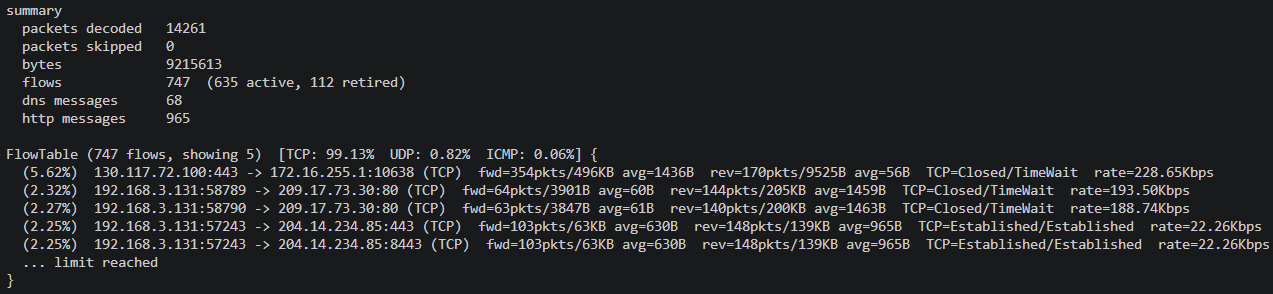
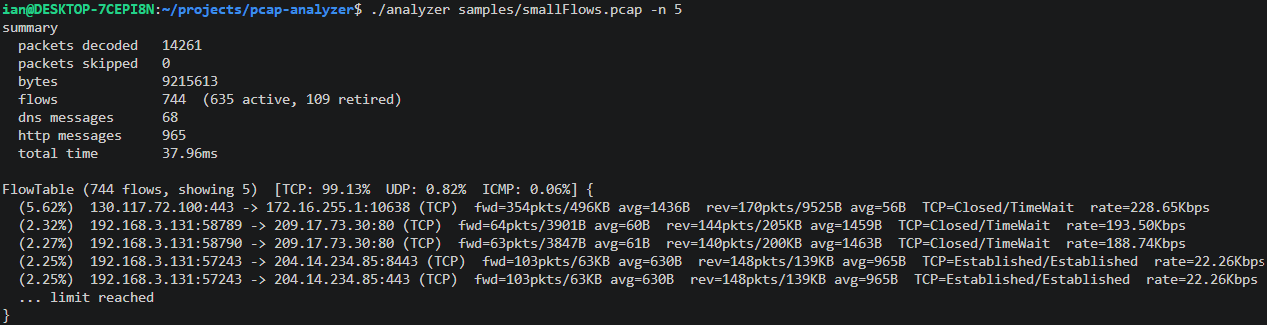
Add active and idle flow timeout flags, defaulting to no active timeout, and 30s idle flow timeout

Changed region(s): [[0.0, 0.0, 1.0, 0.9796]]

diff --git a/src/net/capture/cli.cpp b/src/net/capture/cli.cpp
@@ -20,6 +20,8 @@ struct Options {
     bool show_bench = false;
     bool verify_checksum = true;
     size_t limit = 0;
+    uint64_t flow_timeout_us = 0;
+    uint64_t idle_timeout_us = FlowTable::DEFAULT_IDLE_TIMEOUT_US;
     bool help = false;
 };
 
@@ -44,6 +46,13 @@ void printUsage(std::ostream& os) {
         "  -C, --no-checksum  accept packets with bad IP/TCP/UDP/ICMP checksums\n"
         "                     (captures taken on a sending host often carry\n"
         "                      invalid checksums due to NIC offload)\n"
+        "  -t, --timeout SEC  retire a flow after SEC seconds of activity, even if\n"
+        "                     it never goes idle, and start a new one under the same\n"
+        "                     key (default: 0 = no timeout, a flow only retires by\n"
+        "                     going idle for 30s)\n"
+        "  -i, --idle SEC     retire a flow after SEC seconds without a packet, so a\n"
+        "                     later packet reusing the same 5-tuple starts a new flow\n"
+        "                     instead of joining the old one (default: 30)\n"
         "  -h, --help         this message\n";
 }
 
@@ -84,6 +93,30 @@ bool parseArgs(int argc, char** argv, Options& out) {
                 return false;
             }
             out.limit = static_cast<size_t>(value);
+        } else if (matches(arg, "-t", "--timeout")) {
+            if (i + 1 >= argc) {
+                std::cerr << kProgram << ": " << arg << " requires a number of seconds\n";
+                return false;
+            }
+            char* end = nullptr;
+            long value = std::strtol(argv[++i], &end, 10);
+            if (!end || *end != '\0' || value < 0) {
+                std::cerr << kProgram << ": invalid timeout '" << argv[i] << "'\n";
+                return false;
+            }
+            out.flow_timeout_us = static_cast<uint64_t>(value) * 1'000'000;
+        } else if (matches(arg, "-i", "--idle")) {
+            if (i + 1 >= argc) {
+                std::cerr << kProgram << ": " << arg << " requires a number of seconds\n";
+                return false;
+            }
+            char* end = nullptr;
+            long value = std::strtol(argv[++i], &end, 10);
+            if (!end || *end != '\0' || value < 0) {
+                std::cerr << kProgram << ": invalid idle timeout '" << argv[i] << "'\n";
+                return false;
+            }
+            out.idle_timeout_us = static_cast<uint64_t>(value) * 1'000'000;
         } else if (arg[0] == '-' && arg[1] != '\0') {
             std::cerr << kProgram << ": unknown option '" << arg << "'\n";
             return false;
@@ -113,6 +146,7 @@ void printSummary(std::ostream& os, const pcap::Reader& reader) {
     size_t http_messages = 0;
     size_t dns_messages = 0;
     size_t decode_failures = 0;
+    size_t http_bodies_skipped = 0;
     for (const auto& [key, flow] : table.allFlows()) {
         (void)flow;
         for (bool reverse : {false, true}) {
@@ -121,6 +155,7 @@ void printSummary(std::ostream& os, const pcap::Reader& reader) {
             http_messages += apps->http_messages.size();
             dns_messages += apps->dns_messages.size();
             decode_failures += apps->decode_failures;
+            http_bodies_skipped += apps->http_bodies_skipped;
         }
     }
 
@@ -142,6 +177,10 @@ void printSummary(std::ostream& os, const pcap::Reader& reader) {
     if (decode_failures) {
         os << "  decode failures   " << decode_failures << '\n';
     }
+    if (http_bodies_skipped) {
+        os << "  http bodies skipped " << http_bodies_skipped
+           << "  (>" << (MAX_HTTP_MESSAGE_BYTES / (1024 * 1024)) << "MB, not decode failures)\n";
+    }
     os << "  total time        " << Benchmark::formatDuration(reader.benchmark().elapsedNs(Benchmark::Phase::Total)) << '\n';
     os << '\n';
 }
@@ -160,7 +199,7 @@ int cli(int argc, char** argv) {
     }
 
     try {
-        pcap::Reader reader(options.path, options.limit, options.show_bench, options.verify_checksum);
+        pcap::Reader reader(options.path, options.limit, options.show_bench, options.verify_checksum, options.flow_timeout_us, options.idle_timeout_us);
 
         reader.readAllPackets();
 

diff --git a/include/net/flow/flow_tracker.h b/include/net/flow/flow_tracker.h
@@ -39,7 +39,10 @@ public:
         }
     };
 
-    FlowTable() = default;
+    static constexpr uint64_t DEFAULT_IDLE_TIMEOUT_US = 30000000;
+
+    explicit FlowTable(uint64_t active_timeout_us = 0, uint64_t idle_timeout_us = DEFAULT_IDLE_TIMEOUT_US)
+        : active_timeout_us_(active_timeout_us), idle_timeout_us_(idle_timeout_us) {}
 
     ParseError addPacket(const net::pcap::Capture& capture, FlowKey* out_key = nullptr, bool* out_is_new = nullptr, Flow** out_flow = nullptr);
     void flush();
@@ -51,9 +54,8 @@ public:
     const std::vector<std::pair<const FlowKey*, const FlowTable::Flow*>> allFlows() const;
 
 private:
-    static constexpr uint64_t IDLE_TIMEOUT_US = 30000000;
-    static constexpr uint64_t ACTIVE_TIMEOUT_US = 120000000;
-
+    uint64_t active_timeout_us_ = 0;
+    uint64_t idle_timeout_us_ = DEFAULT_IDLE_TIMEOUT_US;
     uint64_t total_bytes_ = 0;
     std::unordered_map<FlowKey, Flow, FlowKeyHash> flows_;
     std::vector<std::pair<FlowKey, Flow>> completed_;

diff --git a/src/net/decode/decoder.cpp b/src/net/decode/decoder.cpp
@@ -2,8 +2,8 @@
 
 namespace net {
 
-Decoder::Decoder(Benchmark& benchmark, size_t print_limit, bool verify_checksum)
-    : benchmark_(benchmark), dnsTable_(), appDecoder_(dnsTable_), statsEngine_(flowTable_, appDecoder_, dnsTable_, benchmark, print_limit), verify_checksum_(verify_checksum) {}
+Decoder::Decoder(Benchmark& benchmark, size_t print_limit, bool verify_checksum, uint64_t flow_active_timeout_us, uint64_t flow_idle_timeout_us)
+    : benchmark_(benchmark), flowTable_(flow_active_timeout_us, flow_idle_timeout_us), dnsTable_(), appDecoder_(dnsTable_), statsEngine_(flowTable_, appDecoder_, dnsTable_, benchmark, print_limit), verify_checksum_(verify_checksum) {}
 
 ParseError Decoder::decode(std::span<const uint8_t>& span, pcap::Capture& capture) {
     capture.pkt.reset();

diff --git a/src/net/capture/pcap_reader.cpp b/src/net/capture/pcap_reader.cpp
@@ -2,8 +2,8 @@
 
 namespace net::pcap {
 
-Reader::Reader(const std::filesystem::path& path, size_t print_limit, bool detailed_bench, bool verify_checksum)
-    : decoder_(benchmark_, print_limit, verify_checksum) {
+Reader::Reader(const std::filesystem::path& path, size_t print_limit, bool detailed_bench, bool verify_checksum, uint64_t flow_active_timeout_us, uint64_t flow_idle_timeout_us)
+    : decoder_(benchmark_, print_limit, verify_checksum, flow_active_timeout_us, flow_idle_timeout_us) {
     benchmark_.setDetailed(detailed_bench);
 #ifdef _WIN32
     file_ = CreateFileW(path.c_str(), GENERIC_READ, FILE_SHARE_READ,

diff --git a/src/net/flow/flow_tracker.cpp b/src/net/flow/flow_tracker.cpp
@@ -125,8 +125,8 @@ bool FlowTable::setPorts(const net::Packet::TransportHeader transport, FlowKey& 
 
 bool FlowTable::isExpired(const Flow& flow, uint64_t ts_us) const {
     if (ts_us < flow.last_seen) return false;
-    return (ts_us - flow.last_seen > IDLE_TIMEOUT_US) ||
-           (ts_us - flow.first_seen > ACTIVE_TIMEOUT_US);
+    return (ts_us - flow.last_seen > idle_timeout_us_) ||
+           (active_timeout_us_ != 0 && ts_us - flow.first_seen > active_timeout_us_);
 }
 
 const std::vector<std::pair<const FlowKey*, const FlowTable::Flow*>> FlowTable::allFlows() const {

diff --git a/include/net/capture/pcap_reader.h b/include/net/capture/pcap_reader.h
@@ -23,7 +23,8 @@ namespace net::pcap {
 
 class Reader {
 public:
-    explicit Reader(const std::filesystem::path& path, size_t print_limit = 0, bool detailed_bench = false, bool verify_checksum = true);
+    explicit Reader(const std::filesystem::path& path, size_t print_limit = 0, bool detailed_bench = false, bool verify_checksum = true,
+                     uint64_t flow_active_timeout_us = 0, uint64_t flow_idle_timeout_us = FlowTable::DEFAULT_IDLE_TIMEOUT_US);
     Reader(const Reader&) = delete;
     Reader& operator=(const Reader&) = delete;
     ~Reader();

diff --git a/src/net/decode/app_decoder.cpp b/src/net/decode/app_decoder.cpp
@@ -169,7 +169,7 @@ ParseError AppDecoder::pollStream(const FlowKey& key, TcpReassembler& stream, Ap
                         applications.http_messages.push_back(std::move(header));
                         stream.consume(header_bytes);
                         applications.http_skip = body_len;
-                        applications.decode_failures++;
+                        applications.http_bodies_skipped++;
                         continue;
                     }
                     if (!resyncHttp(stream, applications)) break;

diff --git a/include/net/decode/decoder.h b/include/net/decode/decoder.h
@@ -13,7 +13,8 @@ namespace net {
 
 class Decoder {
 public:
-    Decoder(Benchmark& benchmark, size_t print_limit = 0, bool verify_checksum = true);
+    Decoder(Benchmark& benchmark, size_t print_limit = 0, bool verify_checksum = true, uint64_t flow_active_timeout_us = 0,
+            uint64_t flow_idle_timeout_us = FlowTable::DEFAULT_IDLE_TIMEOUT_US);
     ParseError decode(std::span<const uint8_t>& span, pcap::Capture& capture);
 
     void finish();

diff --git a/include/net/decode/app_decoder.h b/include/net/decode/app_decoder.h
@@ -15,6 +15,7 @@ constexpr size_t MAX_PENDING_REQUESTS = 1024;
 
 struct Applications {
     size_t decode_failures = 0;
+    size_t http_bodies_skipped = 0;
     std::vector<dns::Header> dns_messages;
     std::vector<http::Header> http_messages;
     size_t http_chunk_prefix = 0;

diff --git a/README.md b/README.md
@@ -19,7 +19,7 @@ The project was built to demonstrate protocol-level networking knowledge and sys
 - **TCP stream reassembly** — out-of-order segment buffering, sequence-number wraparound handling, and TCP state tracking, so application data can be read as a contiguous stream rather than individual packets.
 - **Application-layer extraction** — DNS message parsing (with compression-pointer following and a jump-count ceiling to guard against pointer loops) and HTTP/1.x request/response framing.
 - **RFC-conscious HTTP parsing** — handles `Transfer-Encoding` / `Content-Length` interactions per RFC 9110/9112 to avoid the classic request-smuggling ambiguity.
-- **Flow tracking** — 5-tuple flow keys with idle/active timeouts and per-direction byte/packet counters.
+- **Flow tracking** — 5-tuple flow keys with configurable idle/active timeouts (`-i`/`-t`, see below) and per-direction byte/packet counters.
 - **Zero runtime dependencies** — the core library and CLI use only the C++ standard library and OS APIs (mmap on POSIX, memory-mapped files on Windows); GoogleTest is only needed to build the test suite.
 - **Copy-minimizing design** — decoded layers operate on buffer views (`std::span`) into the memory-mapped capture rather than copying data; the only copy made is for buffering out-of-order TCP segments.
 - **Built-in phase benchmarking** — always-on timing of file-header parsing, per-packet header parsing, and decoding (broken down further into wire-format parsing, flow lookup, and app-layer decode), surfaced via `-b`/`--bench`.
@@ -109,6 +109,8 @@ Run the built binary against any classic-format `.pcap` file:
 | `-a`, `--all` | Print all available sections. |
 | `-n`, `--limit N` | Print at most N rows per section (`0` = no limit). |
 | `-C`, `--no-checksum` | Accept packets with bad IP/TCP/UDP/ICMP checksums (captures taken on a sending host often carry invalid checksums due to NIC offload). |
+| `-t`, `--timeout SEC` | Retire a flow after `SEC` seconds of activity, even if it never goes idle, and start a new one under the same key (default: `0` = no timeout, a flow only retires by going idle). |
+| `-i`, `--idle SEC` | Retire a flow after `SEC` seconds without a packet, so a later packet reusing the same 5-tuple starts a new flow instead of joining the old one (default: `30`). |
 | `-h`, `--help` | Display the help message. |
 
 If no output-selection option is given, `analyzer` defaults to `--summary --flows`.
@@ -120,21 +122,22 @@ If no output-selection option is given, `analyzer` defaults to `--summary --flow
 ```
 
 ```
+ian@DESKTOP-7CEPI8N:~/projects/pcap-analyzer$ ./analyzer samples/smallFlows.pcap -n 5
 summary
   packets decoded   14261
   packets skipped   0
   bytes             9215613
-  flows             747  (635 active, 112 retired)
+  flows             744  (635 active, 109 retired)
   dns messages      68
   http messages     965
-  total time        24.63ms
+  total time        33.29ms
 
-FlowTable (747 flows, showing 5)  [TCP: 99.13%  UDP: 0.82%  ICMP: 0.06%] {
+FlowTable (744 flows, showing 5)  [TCP: 99.13%  UDP: 0.82%  ICMP: 0.06%] {
   (5.62%)  130.117.72.100:443 -> 172.16.255.1:10638 (TCP)  fwd=354pkts/496KB avg=1436B  rev=170pkts/9525B avg=56B  TCP=Closed/TimeWait  rate=228.65Kbps
   (2.32%)  192.168.3.131:58789 -> 209.17.73.30:80 (TCP)  fwd=64pkts/3901B avg=60B  rev=144pkts/205KB avg=1459B  TCP=Closed/TimeWait  rate=193.50Kbps
   (2.27%)  192.168.3.131:58790 -> 209.17.73.30:80 (TCP)  fwd=63pkts/3847B avg=61B  rev=140pkts/200KB avg=1463B  TCP=Closed/TimeWait  rate=188.74Kbps
-  (2.25%)  192.168.3.131:57243 -> 204.14.234.85:443 (TCP)  fwd=103pkts/63KB avg=630B  rev=148pkts/139KB avg=965B  TCP=Established/Established  rate=22.26Kbps
   (2.25%)  192.168.3.131:57243 -> 204.14.234.85:8443 (TCP)  fwd=103pkts/63KB avg=630B  rev=148pkts/139KB avg=965B  TCP=Established/Established  rate=22.26Kbps
+  (2.25%)  192.168.3.131:57243 -> 204.14.234.85:443 (TCP)  fwd=103pkts/63KB avg=630B  rev=148pkts/139KB avg=965B  TCP=Established/Established  rate=22.26Kbps
   ... limit reached
 }
 
